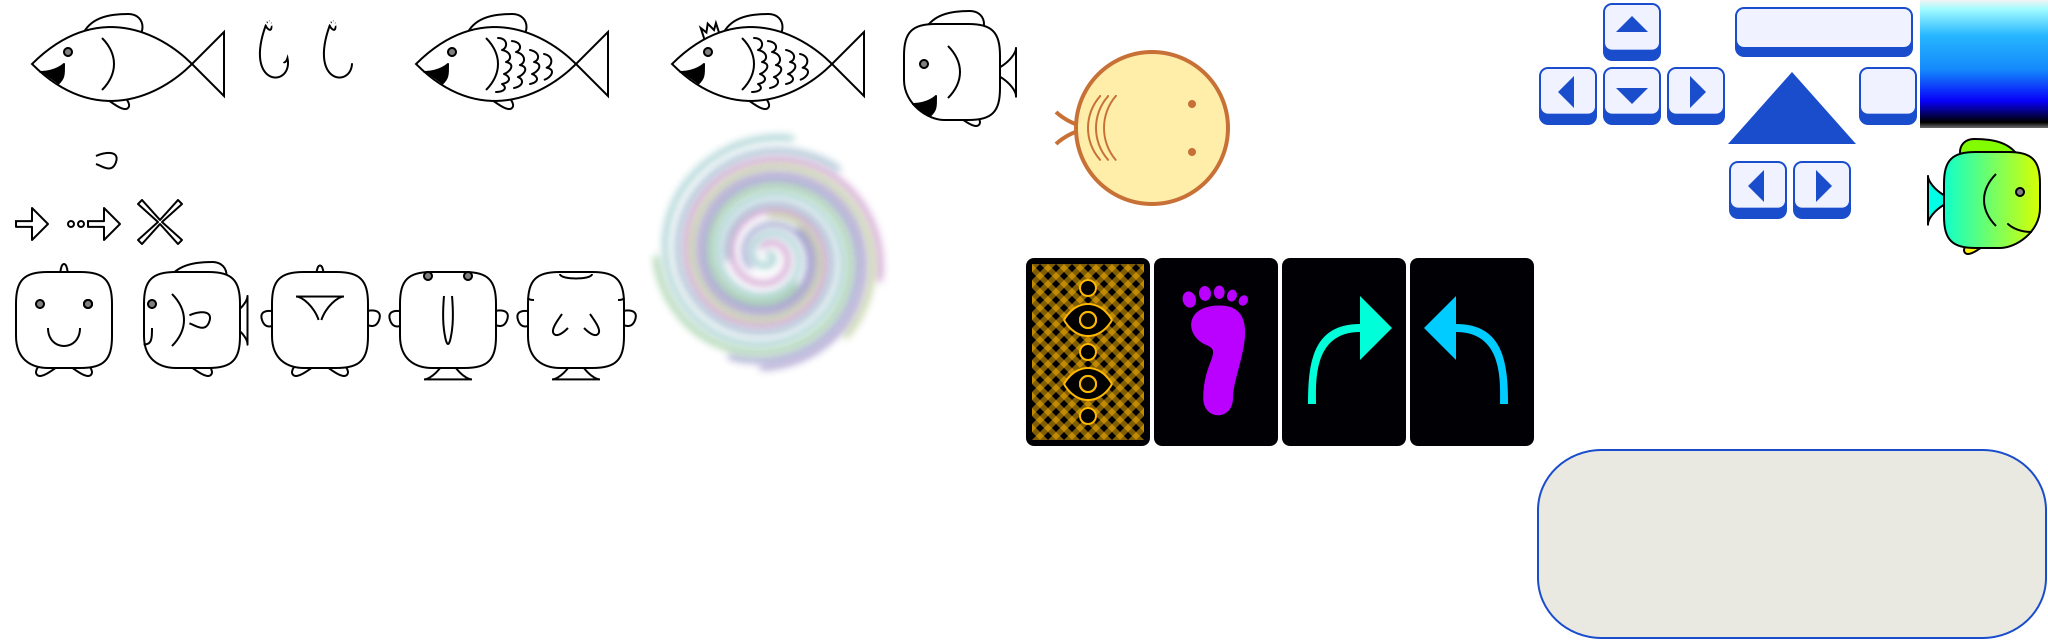
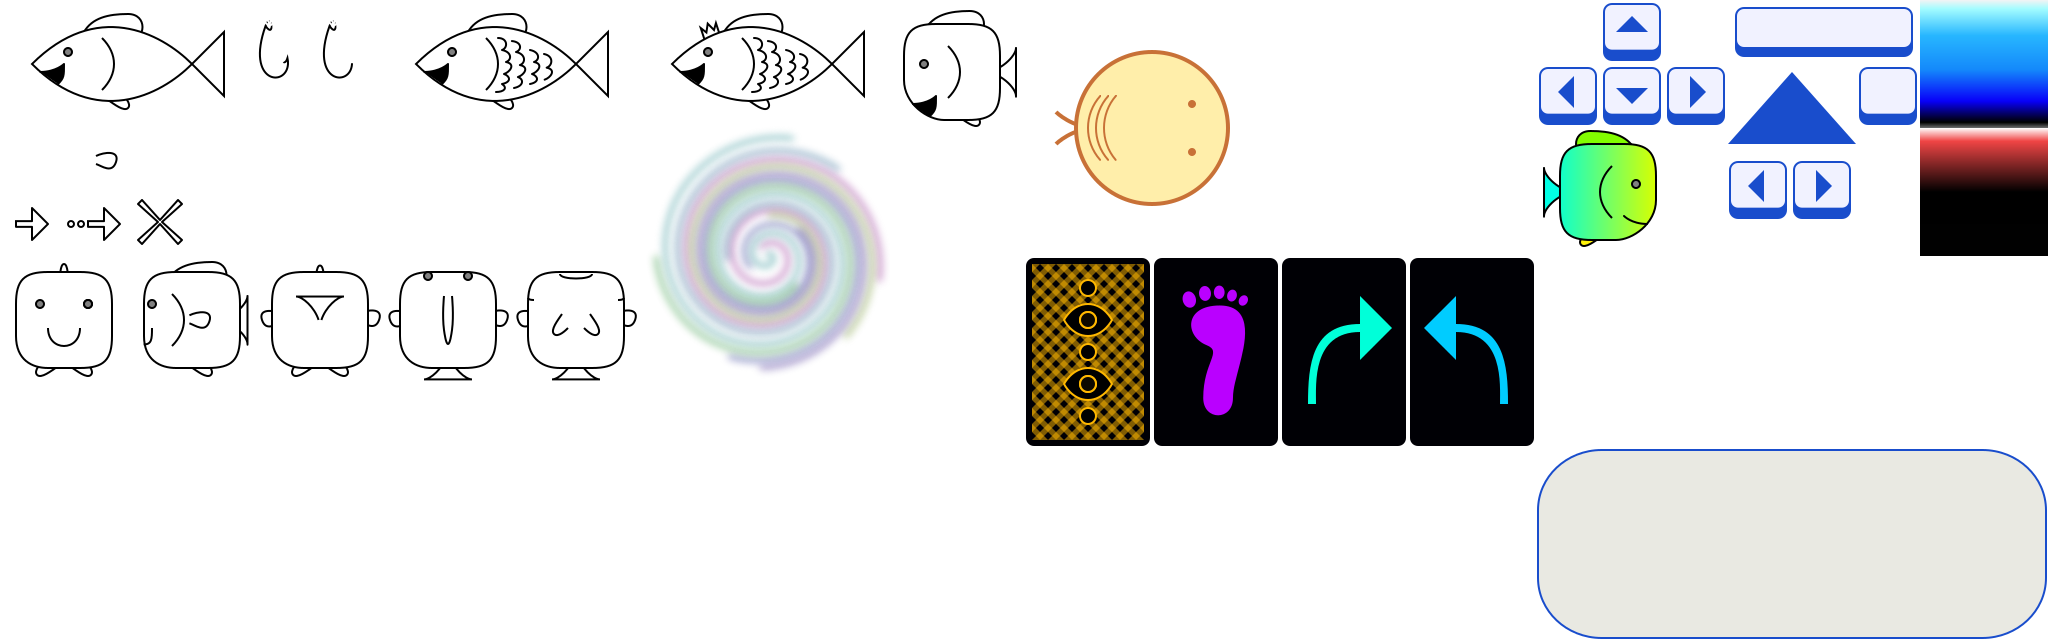
Add background and end animation for burrowing

Changed region(s): [[0.9375, 0.1875, 1.0, 0.4062], [0.75, 0.1875, 0.8125, 0.375]]

diff --git a/mufl/burrow.py b/mufl/burrow.py
@@ -54,10 +54,12 @@ class Burrowing:
         self.game = game
 
         self.bg_layer = game.scene.layers[0]
-        self.tile_layer = self.key_layer1 = game.scene.layers[1]
-        self.deck_layer = self.key_layer2 = self.worm_layer = game.scene.layers[2]
-        self.turncard_layer = self.hypno_layer = game.scene.layers[3]
+        self.tile_layer = game.scene.layers[1]
+        self.deck_layer = self.worm_layer = self.key_layer1 = game.scene.layers[2]
+        self.turncard_layer = self.key_layer2 = self.hypno_layer = game.scene.layers[3]
         self.selcard_layer = game.scene.layers[4]
+
+        self.bg_layer.add_sprite('burrow', anchor_x=0, anchor_y=0)
 
         cards = [Card(c) for c in ['card_foot'] * 24 + ['card_left'] * 20 + ['card_right'] * 20]
         shuffle(cards)
@@ -86,7 +88,11 @@ class Burrowing:
         self.thing = {}
         for x in range(4):
             for y in range(5):
-                s = self.tile_sprites[x, y] = self.tile_layer.add_sprite('block_00000', pos=tile_pos(x, y))
+                s = self.tile_sprites[x, y] = self.tile_layer.add_sprite(
+                    'block_00000',
+                    pos=tile_pos(x, y),
+                    color=(.607, .592, .235),
+                )
                 t = self.thing[x, y] = ThingTile()
                 t.update_sprite(s)
 
@@ -387,7 +393,20 @@ class Burrowing:
 
         self.game.info.add_thing(encode_thing(self.thing))
 
-        await clock.coro.sleep(3)
+        m_layer = self.game.set_molten_chain()
+        for s in self.tile_sprites.values():
+            s.color = 0, 0, 0, 1
+        s = m_layer.add_sprite(
+            'molten', anchor_y=0, anchor_x=0,
+        )
+        s = m_layer.add_sprite(
+            'molten', anchor_y=0, anchor_x=0,
+            pos=(0, self.game.scene.height-40),
+        )
+        h = 62 * 20
+        s.scale_x = (self.game.scene.width + 2) / 64
+        s.scale_y = h / 64
+        await animate(s, y=self.game.scene.height-h, duration=4)
 
         self.game.finish_activity(speedup=3, extra_delay=0.1)
 

diff --git a/mufl/game.py b/mufl/game.py
@@ -76,6 +76,18 @@ class Game:
         ]
         return fill
 
+    def set_molten_chain(self):
+        self.scene.layers.pop(40, None)
+        self.scene.chain = [
+            self.action_layers,
+            chain.Mask(
+                paint=[chain.Fill((0.607, 0.592, 0.235)), chain.Layers([40])],
+                mask=chain.Layers([1]),
+            ),
+            self.info_node,
+        ]
+        return self.scene.layers[40]
+
     def go_do(self, idx):
         self.info.food -= 1
         if idx == 4 and self.info.message_assembled:
@@ -143,6 +155,7 @@ class Game:
         self.activity = AskMissile(self)
 
     def return_to_island(self):
+        self.scene.layers.pop(40, None)
         self.activity = self.island
         self.scene.chain = [
             *self.island_layers,

diff --git a/mufl/main.py b/mufl/main.py
@@ -21,7 +21,7 @@ game.info.add_thing('LDL0:OON00O7O00KOM0000000:o')
 game.info.display[:] = 6, 7, 5, 1
 game.info.food = game.info.magic = game.info.cube = 2
 game.island.reset()
-game.island.on_key_down(keys.KP5)
+game.island.on_key_down(keys.KP3)
 game.island.on_key_down(keys.SPACE)
 
 def coalesce_key(key):

diff --git a/mksprite.py b/mksprite.py
@@ -34,8 +34,8 @@ mksprite(4, 1, 1, 1, 'magic_particle')
 mksprite(7, 1, 1, 1, 'flame')
 
 mksprite(5, 1, 2, 2, 'hypno')
-
-mksprite(15, 1, 1, 1, 'logo')
+mksprite(12, 1, 1, 1, 'logo')
+mksprite(15, 1, 1, 1, 'molten')
 
 mksprite(0, 1.5, 0.5, 0.5, 'arrow')
 mksprite(0.5, 1.5, 0.5, 0.5, 'arrow_guide')
